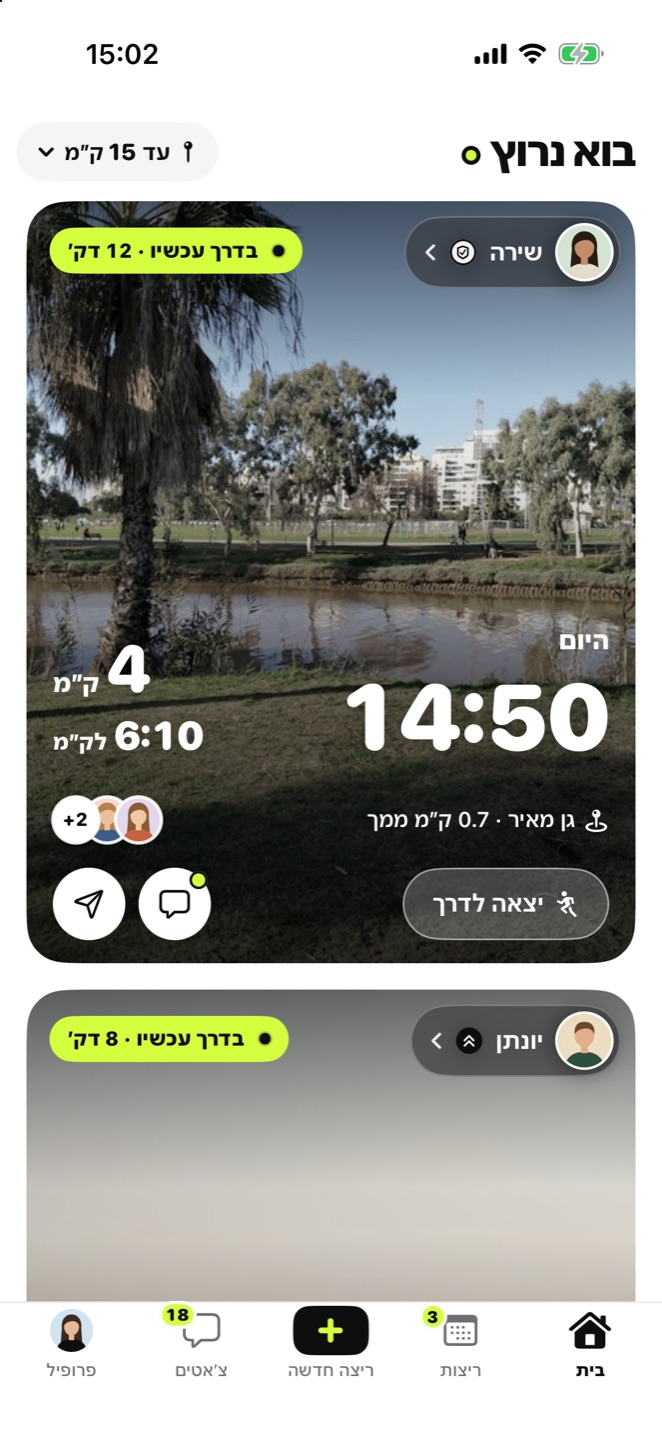
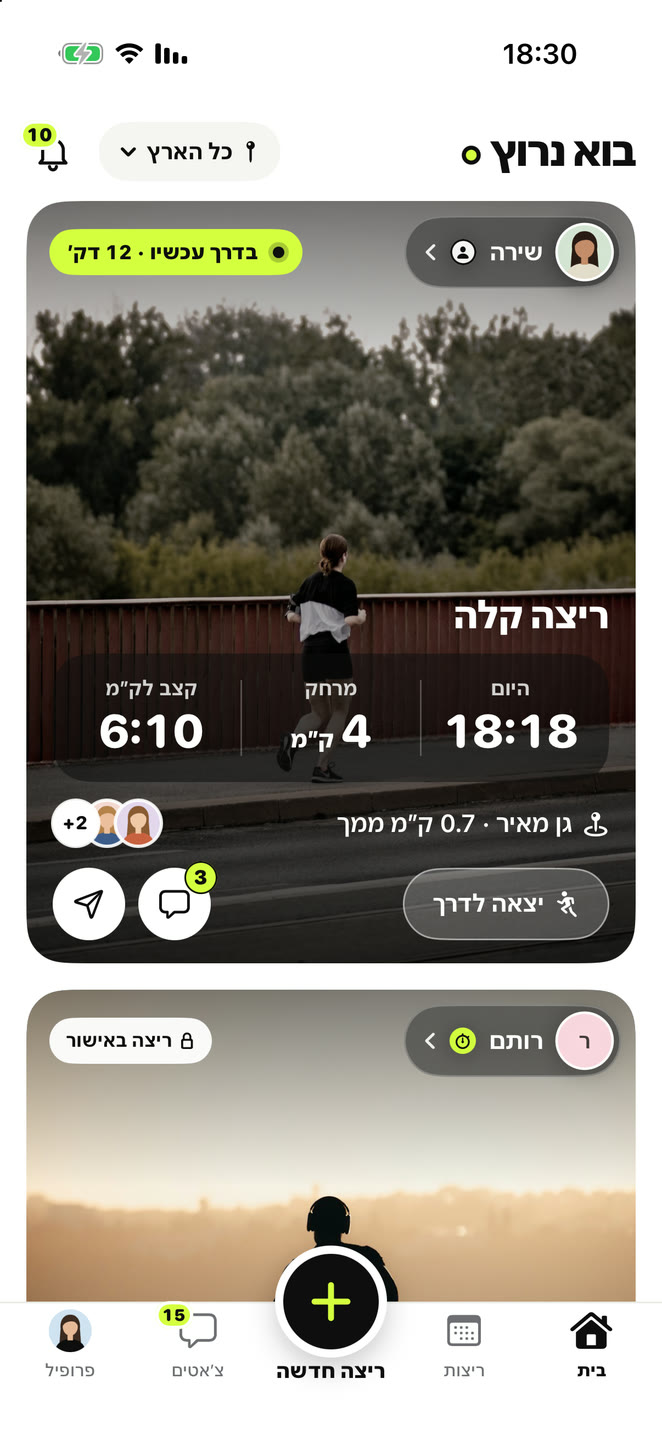
Homepage: current app screenshot (new card, running photo)

diff --git a/index.html b/index.html
@@ -215,7 +215,7 @@ footer a:hover{color:var(--ink)}
       </div>
     </div>
     <div class="stage">
-      <div class="phone"><img src="img/app-feed.jpg" width="662" height="1440" alt="מסך הבית באפליקציה: ריצה של 4 ק״מ בגן מאיר שיצאה לפני 12 דקות, על תמונה של הפארק"></div>
+      <div class="phone"><img src="img/app-feed.jpg?v=2" width="662" height="1440" alt="מסך הבית באפליקציה: ריצה קלה של 4 ק״מ בגן מאיר שיצאה לפני 12 דקות, על תמונה של רצה"></div>
     </div>
   </section>
 
